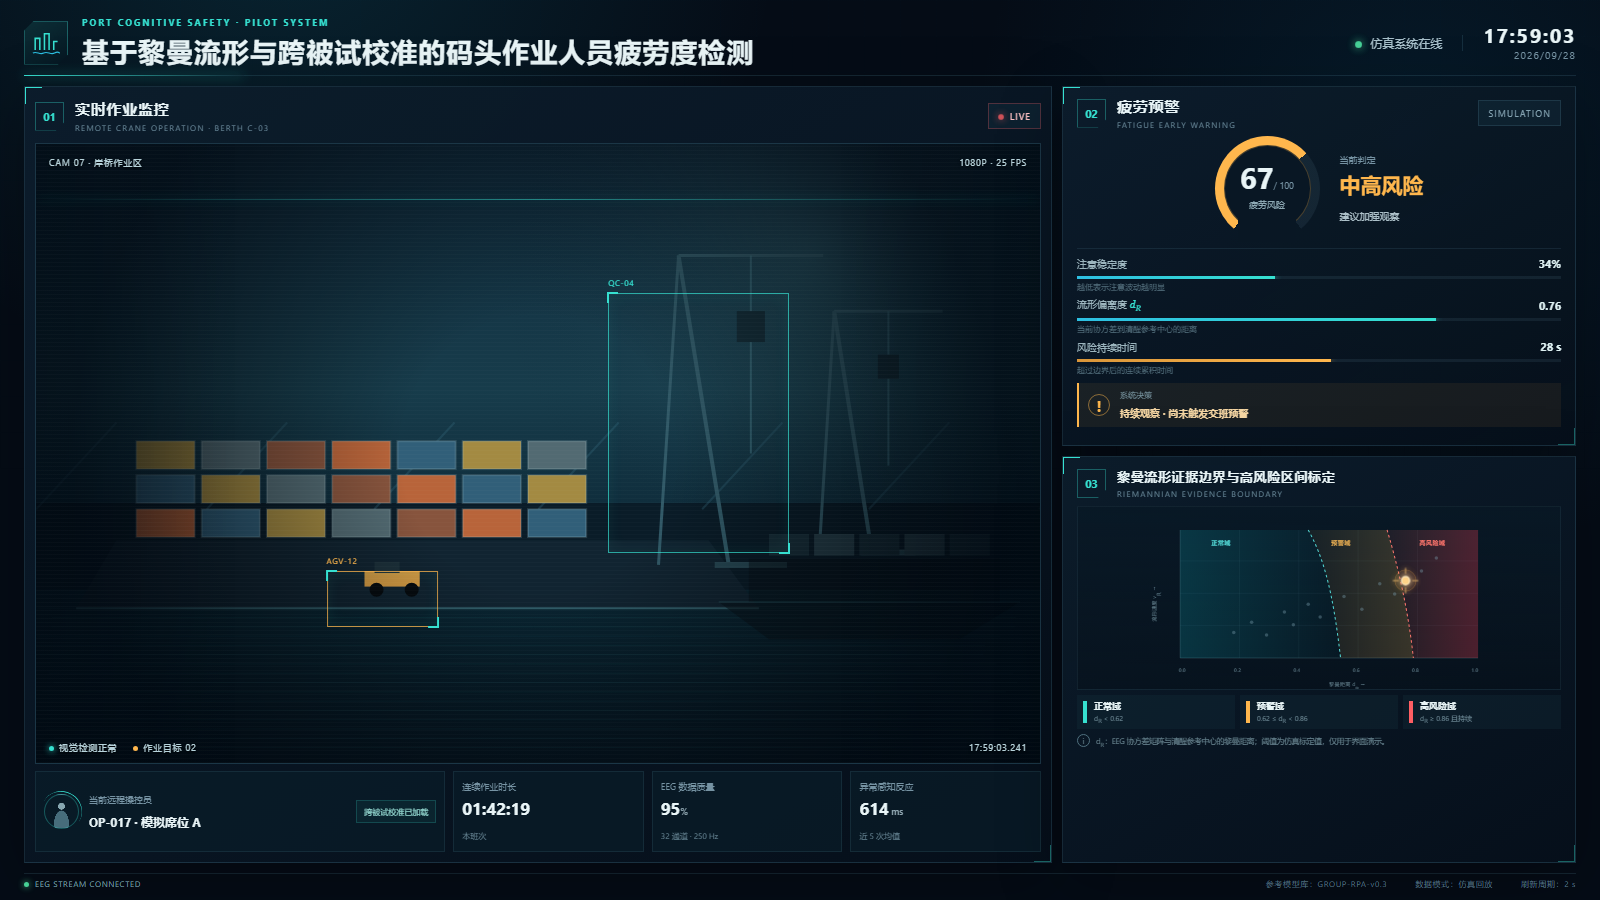
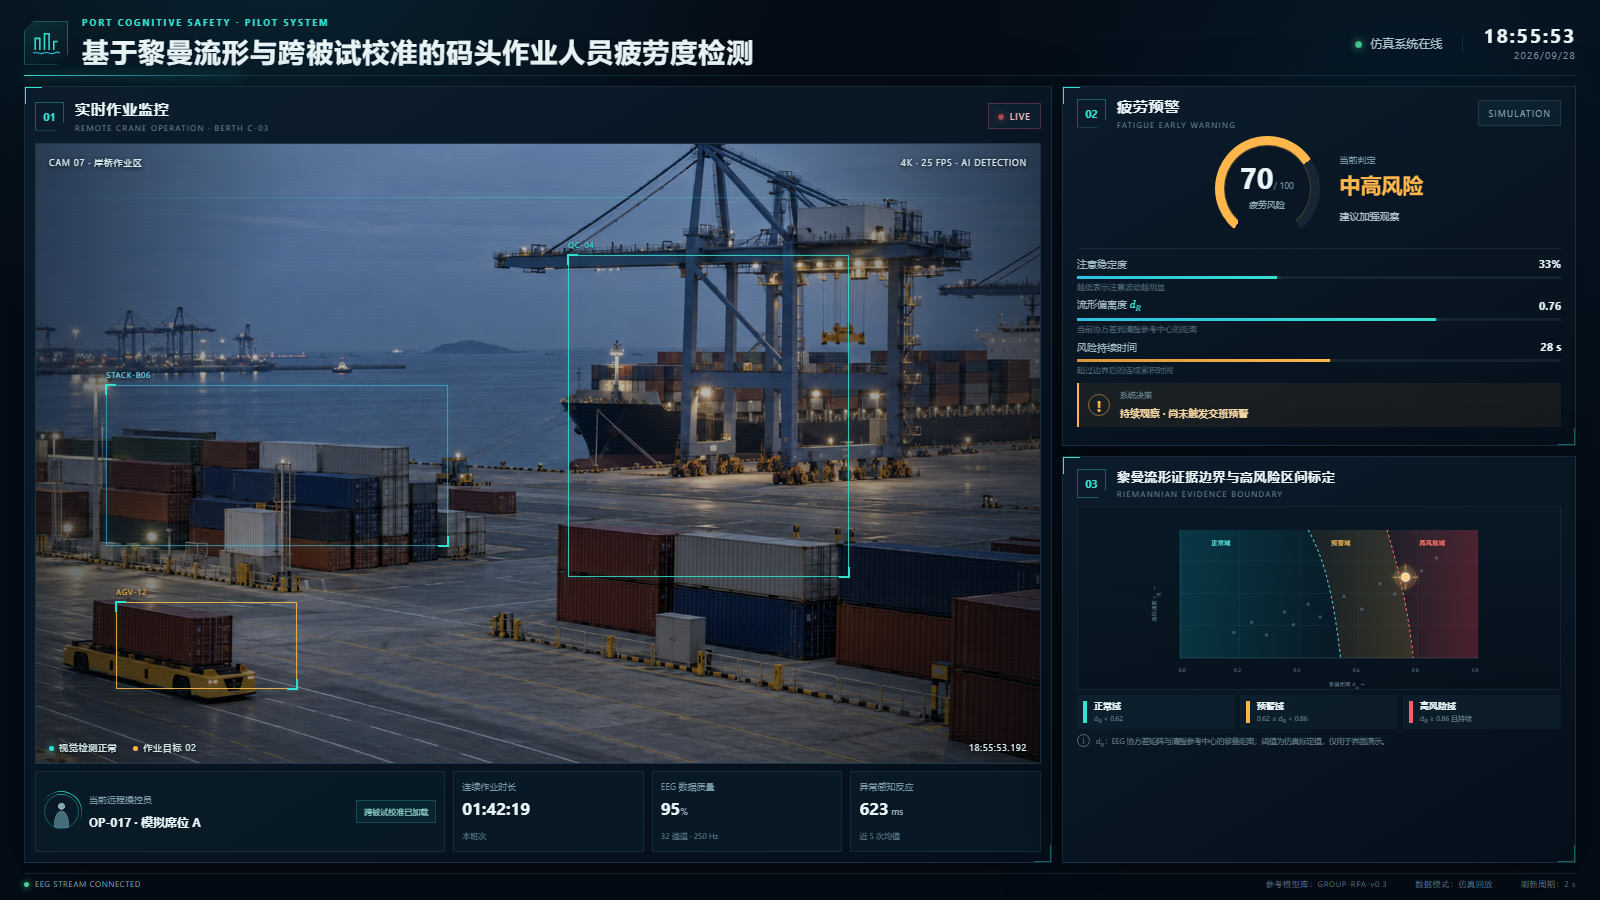
Upgrade monitoring feed with realistic port scene

diff --git a/dist/styles.css b/dist/styles.css
@@ -1,9 +1,10 @@
 :root{--bg:#050c16;--panel:#091522;--panel2:#0b1a29;--line:rgba(108,174,202,.16);--cyan:#36e0d0;--cyan2:#2dbfe2;--text:#e9f5f7;--muted:#7693a3;--amber:#ffb74d;--red:#ff5e63;--green:#4de0a1;--shadow:0 18px 60px rgba(0,0,0,.28)}
 *{box-sizing:border-box}html,body{margin:0;min-height:100%;background:var(--bg);color:var(--text);font-family:"Segoe UI","Microsoft YaHei UI","PingFang SC",sans-serif}body{overflow-x:hidden;background:radial-gradient(circle at 18% -10%,rgba(23,145,170,.18),transparent 30%),radial-gradient(circle at 88% 15%,rgba(8,87,124,.18),transparent 27%),#050c16}.app-shell{min-height:100vh;display:grid;grid-template-rows:auto 1fr auto;padding:18px 24px 12px;position:relative}.app-shell:before{content:"";position:fixed;inset:0;pointer-events:none;opacity:.18;background-image:linear-gradient(rgba(107,204,221,.05) 1px,transparent 1px),linear-gradient(90deg,rgba(107,204,221,.05) 1px,transparent 1px);background-size:36px 36px;mask-image:linear-gradient(to bottom,black,transparent 90%)}
 .topbar{height:76px;display:flex;align-items:center;border-bottom:1px solid var(--line);gap:14px;position:relative}.topbar:after{content:"";position:absolute;bottom:-1px;left:0;width:220px;height:1px;background:linear-gradient(90deg,var(--cyan),transparent);box-shadow:0 0 12px var(--cyan)}.brand-mark{width:44px;height:44px;border:1px solid rgba(65,226,215,.3);display:grid;place-items:center;background:linear-gradient(145deg,rgba(54,224,208,.12),transparent);clip-path:polygon(10px 0,100% 0,100% calc(100% - 10px),calc(100% - 10px) 100%,0 100%,0 10px)}.brand-mark svg{width:34px;fill:none;stroke:var(--cyan);stroke-width:2}.brand-mark .wave{stroke:var(--cyan2);stroke-width:1.5}.title-block{min-width:0}.eyebrow{font-size:9px;letter-spacing:.22em;color:var(--cyan);font-weight:700;margin-bottom:5px}.title-block h1{font-size:clamp(19px,1.7vw,29px);font-weight:650;letter-spacing:.03em;margin:0;white-space:nowrap}.top-status{margin-left:auto;display:flex;align-items:center;gap:20px}.system-online{font-size:12px;color:#a9c1cb;border-right:1px solid var(--line);padding-right:20px}.status-dot{display:inline-block;width:7px;height:7px;margin-right:8px;border-radius:50%;background:var(--green);box-shadow:0 0 10px var(--green);animation:pulseDot 1.8s infinite}.time-box{text-align:right;line-height:1}.time-box strong{display:block;font-size:20px;font-variant-numeric:tabular-nums;letter-spacing:.08em}.time-box span{font-size:10px;color:var(--muted);letter-spacing:.11em}
-.dashboard-grid{display:grid;grid-template-columns:minmax(0,2fr) minmax(360px,1fr);gap:14px;padding:14px 0;min-height:0}.panel{background:linear-gradient(150deg,rgba(12,29,44,.96),rgba(6,16,27,.94));border:1px solid var(--line);box-shadow:var(--shadow);position:relative;overflow:hidden}.panel:before,.panel:after{content:"";position:absolute;width:16px;height:16px;pointer-events:none;z-index:5}.panel:before{left:-1px;top:-1px;border-left:2px solid var(--cyan);border-top:2px solid var(--cyan)}.panel:after{right:-1px;bottom:-1px;border-right:2px solid rgba(54,224,208,.4);border-bottom:2px solid rgba(54,224,208,.4)}.monitor-panel{padding:14px;display:flex;flex-direction:column;min-height:690px}.panel-heading{display:flex;align-items:center;justify-content:space-between;height:46px;margin-bottom:11px}.panel-heading>div:first-child{display:flex;align-items:center;gap:11px}.section-index{font:700 11px/1 "Segoe UI";color:var(--cyan);border:1px solid rgba(54,224,208,.35);width:29px;height:29px;display:grid;place-items:center;clip-path:polygon(0 0,100% 0,100% 72%,72% 100%,0 100%)}.panel-heading h2{font-size:15px;margin:0 0 3px;letter-spacing:.05em}.panel-heading p{font-size:8px;letter-spacing:.16em;color:#658495;margin:0}.panel-heading.compact{height:40px;margin-bottom:9px}.live-chip,.sim-badge{font-size:9px;letter-spacing:.12em;padding:6px 9px;color:#aec8d2;background:rgba(46,107,130,.12);border:1px solid rgba(116,181,202,.16)}.live-chip{color:#ffc3c6;border-color:rgba(255,94,99,.28)}.live-chip span{width:6px;height:6px;display:inline-block;border-radius:50%;background:var(--red);box-shadow:0 0 8px var(--red);margin-right:6px;animation:pulseDot 1s infinite}.camera-frame{position:relative;flex:1;min-height:460px;overflow:hidden;background:#07131e;border:1px solid rgba(93,175,201,.23)}#portCanvas{display:block;width:100%;height:100%;position:absolute;inset:0}.camera-frame:after{content:"";position:absolute;inset:0;pointer-events:none;background:repeating-linear-gradient(0deg,rgba(255,255,255,.018),rgba(255,255,255,.018) 1px,transparent 1px,transparent 4px),linear-gradient(90deg,rgba(0,11,20,.25),transparent 20%,transparent 80%,rgba(0,11,20,.25))}.camera-top-overlay,.camera-bottom-overlay{position:absolute;left:13px;right:13px;z-index:3;display:flex;justify-content:space-between;color:#b8d4dc;font-size:9px;letter-spacing:.08em;text-shadow:0 1px 3px #000}.camera-top-overlay{top:12px}.camera-bottom-overlay{bottom:10px;align-items:center}.camera-bottom-overlay>div{margin-right:16px}.camera-bottom-overlay time{margin-left:auto;font-variant-numeric:tabular-nums}.tiny-dot{display:inline-block;width:5px;height:5px;border-radius:50%;margin-right:5px}.tiny-dot.cyan{background:var(--cyan);box-shadow:0 0 6px var(--cyan)}.tiny-dot.amber{background:var(--amber)}.scan-line{position:absolute;z-index:2;left:0;right:0;height:1px;top:12%;background:linear-gradient(90deg,transparent,rgba(56,224,208,.8),transparent);box-shadow:0 0 12px rgba(56,224,208,.5);animation:scan 6s linear infinite;opacity:.65}.focus-box{position:absolute;z-index:3;border:1px solid rgba(54,224,208,.7);box-shadow:inset 0 0 16px rgba(54,224,208,.07)}.focus-box:before,.focus-box:after{content:"";position:absolute;width:9px;height:9px}.focus-box:before{top:-2px;left:-2px;border-left:2px solid var(--cyan);border-top:2px solid var(--cyan)}.focus-box:after{bottom:-2px;right:-2px;border-right:2px solid var(--cyan);border-bottom:2px solid var(--cyan)}.focus-box span{position:absolute;top:-17px;left:-1px;color:var(--cyan);font-size:8px;letter-spacing:.08em}.focus-crane{left:57%;top:24%;width:18%;height:42%}.focus-truck{left:29%;top:69%;width:11%;height:9%;border-color:rgba(255,183,77,.75);animation:truckBox 10s ease-in-out infinite}.focus-truck span{color:var(--amber)}.monitor-footer{display:grid;grid-template-columns:1.55fr .72fr .72fr .72fr;gap:8px;margin-top:9px}.operator-card,.metric-card{min-height:67px;border:1px solid rgba(111,177,200,.12);background:rgba(9,29,43,.64);padding:11px;display:flex;align-items:center}.operator-avatar{width:35px;height:35px;border-radius:50%;border:1px solid rgba(54,224,208,.32);position:relative;margin-right:10px;background:radial-gradient(circle at 50% 34%,#87a7b1 0 12%,transparent 13%),radial-gradient(ellipse at 50% 85%,#476d7b 0 31%,transparent 32%)}.operator-avatar:after{content:"";position:absolute;inset:-4px;border-radius:50%;border-top:1px solid var(--cyan);transform:rotate(30deg)}.operator-card p,.metric-card p{font-size:9px;color:var(--muted);margin:0 0 5px}.operator-card strong{font-size:12px}.operator-card .tag{margin-left:auto}.tag{font-size:8px;padding:5px 7px;border:1px solid rgba(54,224,208,.2);color:#94d9d1;background:rgba(54,224,208,.06)}.metric-card{display:block}.metric-card strong{display:block;font-size:17px;font-variant-numeric:tabular-nums;margin-bottom:3px}.metric-card small{font-size:9px;font-weight:500;color:#9ab1bb}.metric-card>span{font-size:8px;color:#63808f}
+.dashboard-grid{display:grid;grid-template-columns:minmax(0,2fr) minmax(360px,1fr);gap:14px;padding:14px 0;min-height:0}.panel{background:linear-gradient(150deg,rgba(12,29,44,.96),rgba(6,16,27,.94));border:1px solid var(--line);box-shadow:var(--shadow);position:relative;overflow:hidden}.panel:before,.panel:after{content:"";position:absolute;width:16px;height:16px;pointer-events:none;z-index:5}.panel:before{left:-1px;top:-1px;border-left:2px solid var(--cyan);border-top:2px solid var(--cyan)}.panel:after{right:-1px;bottom:-1px;border-right:2px solid rgba(54,224,208,.4);border-bottom:2px solid rgba(54,224,208,.4)}.monitor-panel{padding:14px;display:flex;flex-direction:column;min-height:690px}.panel-heading{display:flex;align-items:center;justify-content:space-between;height:46px;margin-bottom:11px}.panel-heading>div:first-child{display:flex;align-items:center;gap:11px}.section-index{font:700 11px/1 "Segoe UI";color:var(--cyan);border:1px solid rgba(54,224,208,.35);width:29px;height:29px;display:grid;place-items:center;clip-path:polygon(0 0,100% 0,100% 72%,72% 100%,0 100%,0 10px)}.panel-heading h2{font-size:15px;margin:0 0 3px;letter-spacing:.05em}.panel-heading p{font-size:8px;letter-spacing:.16em;color:#658495;margin:0}.panel-heading.compact{height:40px;margin-bottom:9px}.live-chip,.sim-badge{font-size:9px;letter-spacing:.12em;padding:6px 9px;color:#aec8d2;background:rgba(46,107,130,.12);border:1px solid rgba(116,181,202,.16)}.live-chip{color:#ffc3c6;border-color:rgba(255,94,99,.28)}.live-chip span{width:6px;height:6px;display:inline-block;border-radius:50%;background:var(--red);box-shadow:0 0 8px var(--red);margin-right:6px;animation:pulseDot 1s infinite}.camera-frame{position:relative;flex:1;min-height:460px;overflow:hidden;background:#07131e;border:1px solid rgba(93,175,201,.23)}.port-feed{position:absolute;inset:-1.5%;width:103%;height:103%;object-fit:cover;object-position:center;filter:saturate(.82) contrast(1.09) brightness(.78);animation:cameraDrift 18s ease-in-out infinite alternate}.feed-color-grade{position:absolute;inset:0;z-index:1;background:linear-gradient(180deg,rgba(4,24,35,.04),rgba(3,17,28,.18)),linear-gradient(90deg,rgba(5,20,31,.22),transparent 25%,transparent 75%,rgba(5,20,31,.28));mix-blend-mode:multiply}.camera-frame:after{content:"";position:absolute;inset:0;z-index:2;pointer-events:none;background:repeating-linear-gradient(0deg,rgba(255,255,255,.018),rgba(255,255,255,.018) 1px,transparent 1px,transparent 4px),radial-gradient(circle at center,transparent 55%,rgba(0,8,15,.4) 100%)}.camera-top-overlay,.camera-bottom-overlay{position:absolute;left:13px;right:13px;z-index:4;display:flex;justify-content:space-between;color:#d2e7ea;font-size:9px;letter-spacing:.08em;text-shadow:0 1px 4px #000}.camera-top-overlay{top:12px}.camera-bottom-overlay{bottom:10px;align-items:center}.camera-bottom-overlay>div{margin-right:16px}.camera-bottom-overlay time{margin-left:auto;font-variant-numeric:tabular-nums}.tiny-dot{display:inline-block;width:5px;height:5px;border-radius:50%;margin-right:5px}.tiny-dot.cyan{background:var(--cyan);box-shadow:0 0 6px var(--cyan)}.tiny-dot.amber{background:var(--amber)}.scan-line{position:absolute;z-index:3;left:0;right:0;height:1px;top:12%;background:linear-gradient(90deg,transparent,rgba(56,224,208,.75),transparent);box-shadow:0 0 12px rgba(56,224,208,.42);animation:scan 7s linear infinite;opacity:.48}.focus-box{position:absolute;z-index:4;border:1px solid rgba(54,224,208,.85);box-shadow:inset 0 0 16px rgba(54,224,208,.06),0 0 8px rgba(54,224,208,.12)}.focus-box:before,.focus-box:after{content:"";position:absolute;width:9px;height:9px}.focus-box:before{top:-2px;left:-2px;border-left:2px solid var(--cyan);border-top:2px solid var(--cyan)}.focus-box:after{bottom:-2px;right:-2px;border-right:2px solid var(--cyan);border-bottom:2px solid var(--cyan)}.focus-box span{position:absolute;top:-17px;left:-1px;color:var(--cyan);font-size:8px;letter-spacing:.08em;text-shadow:0 1px 3px #000}.focus-crane{left:53%;top:18%;width:28%;height:52%}.focus-truck{left:15%;top:69%;width:15%;height:10%;border-color:rgba(255,183,77,.9);animation:truckBox 12s ease-in-out infinite}.focus-truck span{color:var(--amber)}.focus-container{left:7%;top:39%;width:34%;height:26%;border-color:rgba(65,190,226,.62)}.focus-container span{color:#65d7f1}.monitor-footer{display:grid;grid-template-columns:1.55fr .72fr .72fr .72fr;gap:8px;margin-top:9px}.operator-card,.metric-card{min-height:67px;border:1px solid rgba(111,177,200,.12);background:rgba(9,29,43,.64);padding:11px;display:flex;align-items:center}.operator-avatar{width:35px;height:35px;border-radius:50%;border:1px solid rgba(54,224,208,.32);position:relative;margin-right:10px;background:radial-gradient(circle at 50% 34%,#87a7b1 0 12%,transparent 13%),radial-gradient(ellipse at 50% 85%,#476d7b 0 31%,transparent 32%)}.operator-avatar:after{content:"";position:absolute;inset:-4px;border-radius:50%;border-top:1px solid var(--cyan);transform:rotate(30deg)}.operator-card p,.metric-card p{font-size:9px;color:var(--muted);margin:0 0 5px}.operator-card strong{font-size:12px}.operator-card .tag{margin-left:auto}.tag{font-size:8px;padding:5px 7px;border:1px solid rgba(54,224,208,.2);color:#94d9d1;background:rgba(54,224,208,.06)}.metric-card{display:block}.metric-card strong{display:block;font-size:17px;font-variant-numeric:tabular-nums;margin-bottom:3px}.metric-card small{font-size:9px;font-weight:500;color:#9ab1bb}.metric-card>span{font-size:8px;color:#63808f}
 .decision-column{display:grid;grid-template-rows:minmax(0,.94fr) minmax(0,1.06fr);gap:14px;min-height:0}.alert-panel,.manifold-panel{padding:12px 14px}.sim-badge{color:#85a4b2}.gauge-row{display:flex;align-items:center;justify-content:center;gap:25px;padding:4px 0 11px;border-bottom:1px solid rgba(114,174,197,.12)}.risk-gauge{--risk:68;width:125px;aspect-ratio:1;border-radius:50%;display:grid;place-items:center;background:conic-gradient(from 220deg,var(--amber) calc(var(--risk)*2.8deg),rgba(101,139,157,.12) 0 280deg,transparent 0);position:relative;transform:rotate(0deg)}.risk-gauge:before{content:"";position:absolute;inset:9px;border-radius:50%;background:#091724;border:1px solid rgba(255,183,77,.25)}.risk-gauge:after{content:"";position:absolute;bottom:-1px;width:58px;height:27px;background:#091724}.gauge-inner{position:relative;z-index:1;text-align:center;margin-top:-4px}.gauge-inner strong{font-size:35px;line-height:1;font-variant-numeric:tabular-nums}.gauge-inner span{font-size:9px;color:var(--muted)}.gauge-inner small{display:block;font-size:9px;color:#8ea9b4;margin-top:5px}.risk-copy p{font-size:9px;color:var(--muted);margin:0 0 5px}.risk-copy strong{display:block;color:var(--amber);font-size:21px;margin-bottom:5px}.risk-copy span{font-size:10px;color:#adc1c9}.evidence-list{padding:10px 0 7px}.evidence-item{margin-bottom:8px}.evidence-item>div:first-child{display:flex;justify-content:space-between;align-items:center;font-size:10px;color:#9cb5be}.evidence-item b{font-size:11px;color:#dff2f3;font-variant-numeric:tabular-nums}.evidence-item em{font-family:Georgia,serif;color:var(--cyan);font-style:italic}.evidence-item small{display:block;font-size:8px;color:#55717f;margin-top:3px}.mini-track{height:3px;background:rgba(106,156,176,.12);margin-top:5px;overflow:hidden}.mini-track i{display:block;height:100%;background:linear-gradient(90deg,var(--cyan2),var(--cyan));box-shadow:0 0 7px var(--cyan);transition:width .8s ease}.mini-track.amber i{background:linear-gradient(90deg,#d99539,var(--amber));box-shadow:0 0 7px rgba(255,183,77,.65)}.decision-strip{display:flex;align-items:center;gap:10px;background:rgba(255,183,77,.07);border-left:2px solid var(--amber);padding:8px 10px}.decision-icon{width:22px;height:22px;border-radius:50%;display:grid;place-items:center;border:1px solid rgba(255,183,77,.5);color:var(--amber);font-weight:700}.decision-strip span{font-size:8px;color:#77939f;display:block}.decision-strip strong{font-size:10px;color:#f5d6a3}.manifold-heading h2{font-size:13px}.chart-wrap{height:220px;border:1px solid rgba(106,168,190,.1);background:linear-gradient(180deg,rgba(8,24,37,.8),rgba(5,15,25,.5));overflow:hidden}.chart-wrap svg{width:100%;height:100%;display:block}.grid-lines path{stroke:rgba(132,183,200,.1);stroke-width:1}.grid-lines path:first-child{stroke:rgba(140,195,210,.3)}.boundary-line{fill:none;stroke:#53d9d6;stroke-width:1.5;stroke-dasharray:4 4}.boundary-line.red{stroke:#ff776f}.historical-points circle{fill:#789ca9;opacity:.4}.pulse{fill:rgba(255,183,77,.08);stroke:rgba(255,183,77,.35);animation:chartPulse 1.8s infinite}.point{fill:#ffd287;stroke:#fff0cf;stroke-width:1.5}.chart-wrap #currentPoint path{stroke:#ffcb75;stroke-width:1}.axis-labels text{fill:#65828f;font-size:8px}.zone-labels text{font-size:9px;letter-spacing:.08em;font-weight:600}.zone-labels text:nth-child(1){fill:#53d9d6}.zone-labels text:nth-child(2){fill:#e3aa51}.zone-labels text:nth-child(3){fill:#ff766d}.boundary-legend{display:grid;grid-template-columns:repeat(3,1fr);gap:5px;margin-top:7px}.boundary-legend>div{display:flex;align-items:center;padding:5px 6px;background:rgba(20,46,61,.35)}.legend-mark{width:4px;height:28px;margin-right:7px}.legend-mark.safe{background:var(--cyan)}.legend-mark.warn{background:var(--amber)}.legend-mark.risk{background:var(--red)}.boundary-legend p{margin:0}.boundary-legend strong{display:block;font-size:9px}.boundary-legend small{display:block;font-size:7px;color:#6e8a96;margin-top:2px}.chart-note{font-size:7.5px;line-height:1.5;color:#688490;margin:7px 0 0}.chart-note>span{display:inline-grid;place-items:center;width:13px;height:13px;border:1px solid #507180;border-radius:50%;font-size:8px;margin-right:4px}.footerbar{height:24px;display:flex;justify-content:flex-end;align-items:center;gap:28px;border-top:1px solid var(--line);font-size:8px;letter-spacing:.08em;color:#5f7e8b}.footerbar span:first-child{margin-right:auto;color:#82a7b4}.footerbar i{display:inline-block;width:5px;height:5px;border-radius:50%;background:var(--green);margin-right:6px;box-shadow:0 0 6px var(--green)}
-@keyframes pulseDot{50%{opacity:.35;transform:scale(.75)}}@keyframes scan{from{top:8%}to{top:90%}}@keyframes chartPulse{50%{r:11;opacity:.35}}@keyframes truckBox{0%,100%{transform:translateX(0)}50%{transform:translateX(28px)}}
+.section-index{clip-path:polygon(0 0,100% 0,100% 72%,72% 100%,0 100%)}.focus-truck{left:8%;top:74%;width:18%;height:14%}
+@keyframes pulseDot{50%{opacity:.35;transform:scale(.75)}}@keyframes scan{from{top:8%}to{top:90%}}@keyframes chartPulse{50%{r:11;opacity:.35}}@keyframes truckBox{0%,100%{transform:translateX(0)}50%{transform:translateX(18px)}}@keyframes cameraDrift{from{transform:scale(1.01) translate3d(-.2%,0,0)}to{transform:scale(1.045) translate3d(.5%,-.35%,0)}}
 @media(min-width:1051px) and (max-height:950px){.app-shell{padding:10px 24px 7px}.topbar{height:66px}.dashboard-grid{padding:10px 0;gap:10px}.monitor-panel{min-height:0;padding:10px}.panel-heading{height:38px;margin-bottom:8px}.camera-frame{min-height:0}.monitor-footer{margin-top:7px}.operator-card,.metric-card{min-height:58px;padding:8px}.decision-column{gap:10px}.alert-panel,.manifold-panel{padding:9px 14px}.panel-heading.compact{height:34px;margin-bottom:6px}.gauge-row{gap:20px;padding:0 0 7px}.risk-gauge{width:105px}.gauge-inner strong{font-size:29px}.evidence-list{padding:7px 0 3px}.evidence-item{margin-bottom:5px}.evidence-item small{margin-top:2px}.decision-strip{padding:6px 9px}.chart-wrap{height:184px}.boundary-legend{margin-top:5px}.boundary-legend>div{padding:4px 6px}.legend-mark{height:22px}.chart-note{margin-top:5px}.footerbar{height:20px}}
 @media(max-width:1050px){.app-shell{padding:12px}.title-block h1{white-space:normal;font-size:18px}.dashboard-grid{grid-template-columns:1fr}.monitor-panel{min-height:620px}.decision-column{grid-template-columns:1fr 1fr;grid-template-rows:auto}.footerbar{gap:12px}.monitor-footer{grid-template-columns:1.4fr repeat(3,.8fr)}}
 @media(max-width:760px){.topbar{height:auto;padding:10px 0}.brand-mark{display:none}.top-status{align-self:flex-start}.system-online{display:none}.title-block h1{font-size:16px}.eyebrow{font-size:7px}.dashboard-grid{padding-top:10px}.monitor-panel{min-height:570px}.camera-frame{min-height:350px}.monitor-footer{grid-template-columns:1fr 1fr}.operator-card{grid-column:1/-1}.decision-column{grid-template-columns:1fr}.footerbar span:nth-child(n+3){display:none}}

diff --git a/dist/app.js b/dist/app.js
@@ -55,39 +55,6 @@
     group.innerHTML = points.map(([x,y]) => `<circle cx="${54+x*442}" cy="${224-y/.5*190}" r="2.6"/>`).join('');
   }
 
-  const canvas = $('portCanvas');
-  const ctx = canvas.getContext('2d');
-  let t = 0;
-  function fitCanvas() {
-    const dpr = Math.min(window.devicePixelRatio || 1, 2);
-    const rect = canvas.getBoundingClientRect();
-    canvas.width = Math.max(1, Math.round(rect.width * dpr));
-    canvas.height = Math.max(1, Math.round(rect.height * dpr));
-    ctx.setTransform(dpr, 0, 0, dpr, 0, 0);
-  }
-  function line(x1,y1,x2,y2,color,width=1){ctx.strokeStyle=color;ctx.lineWidth=width;ctx.beginPath();ctx.moveTo(x1,y1);ctx.lineTo(x2,y2);ctx.stroke()}
-  function drawPort() {
-    const w = canvas.clientWidth, h = canvas.clientHeight;
-    if (!w || !h) return requestAnimationFrame(drawPort);
-    t += .008;
-    const sky = ctx.createLinearGradient(0,0,0,h*.72);sky.addColorStop(0,'#102b3d');sky.addColorStop(.55,'#173c4b');sky.addColorStop(1,'#0a2332');ctx.fillStyle=sky;ctx.fillRect(0,0,w,h*.74);
-    const glow = ctx.createRadialGradient(w*.77,h*.18,2,w*.77,h*.18,w*.32);glow.addColorStop(0,'rgba(115,196,207,.18)');glow.addColorStop(1,'rgba(10,33,46,0)');ctx.fillStyle=glow;ctx.fillRect(0,0,w,h*.65);
-    ctx.fillStyle='#0a1c28';ctx.fillRect(0,h*.58,w,h*.18);
-    for(let i=0;i<7;i++){const x=i*w/6+Math.sin(t+i)*4;line(x,h*.59,x+w*.08,h*.45,'rgba(51,101,119,.36)',2)}
-    const water = ctx.createLinearGradient(0,h*.72,0,h);water.addColorStop(0,'#0a2633');water.addColorStop(1,'#061723');ctx.fillStyle=water;ctx.fillRect(0,h*.72,w,h*.28);
-    for(let i=0;i<16;i++){const y=h*.75+i*h*.015;const off=Math.sin(t*2+i)*18;line(off,y,w*.96+off,y,'rgba(59,144,158,.11)',1)}
-    ctx.fillStyle='#112431';ctx.beginPath();ctx.moveTo(w*.08,h*.64);ctx.lineTo(w*.67,h*.64);ctx.lineTo(w*.72,h*.75);ctx.lineTo(w*.04,h*.75);ctx.closePath();ctx.fill();line(w*.04,h*.75,w*.72,h*.75,'#315d69',2);
-    const colors=['#b8643a','#315f79','#a38a42','#526a72','#87543d'];for(let r=0;r<3;r++)for(let c=0;c<7;c++){ctx.fillStyle=colors[(r+c)%colors.length];ctx.fillRect(w*(.1+c*.065),h*(.59-r*.055),w*.058,h*.045);ctx.strokeStyle='rgba(190,218,220,.18)';ctx.strokeRect(w*(.1+c*.065),h*(.59-r*.055),w*.058,h*.045)}
-    drawCrane(w*.62,h*.18,w*.2,h*.5);drawCrane(w*.78,h*.27,w*.15,h*.39);
-    const tx=w*(.26+(Math.sin(t*.7)*.5+.5)*.13);ctx.fillStyle='#d39a43';ctx.fillRect(tx,h*.69,w*.055,h*.025);ctx.fillStyle='#1c303a';ctx.fillRect(tx+w*.01,h*.675,w*.025,h*.018);ctx.fillStyle='#060b0f';ctx.beginPath();ctx.arc(tx+w*.012,h*.72,w*.007,0,Math.PI*2);ctx.arc(tx+w*.047,h*.72,w*.007,0,Math.PI*2);ctx.fill();
-    ctx.fillStyle='rgba(8,18,25,.55)';ctx.fillRect(w*.71,h*.67,w*.25,h*.07);ctx.beginPath();ctx.moveTo(w*.68,h*.74);ctx.lineTo(w*.98,h*.74);ctx.lineTo(w*.92,h*.8);ctx.lineTo(w*.73,h*.8);ctx.closePath();ctx.fill();line(w*.68,h*.74,w*.98,h*.74,'rgba(88,178,188,.3)');
-    for(let i=0;i<5;i++){ctx.fillStyle=i%2?'#263f4a':'#182f3a';ctx.fillRect(w*(.73+i*.045),h*.63,w*.04,h*.035)}
-    const vignette=ctx.createRadialGradient(w/2,h/2,h*.22,w/2,h/2,h*.75);vignette.addColorStop(0,'rgba(0,0,0,0)');vignette.addColorStop(1,'rgba(0,5,12,.7)');ctx.fillStyle=vignette;ctx.fillRect(0,0,w,h);
-    requestAnimationFrame(drawPort);
-  }
-  function drawCrane(x,y,cw,ch){ctx.save();ctx.strokeStyle='#294f5d';ctx.lineWidth=Math.max(2,cw*.018);ctx.lineJoin='miter';line(x,y+ch,x+cw*.1,y,'#315967',3);line(x+cw*.1,y,x+cw*.82,y,'#315967',3);line(x+cw*.1,y,x+cw*.35,y+ch,'#315967',4);line(x+cw*.28,y+ch,x+cw*.64,y+ch,'#264753',6);line(x+cw*.46,y,x+cw*.46,y+ch*.64,'rgba(63,114,127,.65)',2);ctx.fillStyle='#152e39';ctx.fillRect(x+cw*.39,y+ch*.18,cw*.14,ch*.1);ctx.restore()}
-
-  window.addEventListener('resize', fitCanvas);
-  fitCanvas(); createHistory(); tickClock(); updateSimulation(); drawPort();
+  createHistory(); tickClock(); updateSimulation();
   setInterval(tickClock, 250); setInterval(updateSimulation, 2000);
 })();

diff --git a/dist/index.html b/dist/index.html
@@ -35,13 +35,15 @@
         </div>
 
         <div class="camera-frame">
-          <canvas id="portCanvas" aria-label="仿真的码头远程作业监控画面"></canvas>
+          <img class="port-feed" src="./assets/port-cctv-realistic.png" alt="仿真的现代集装箱码头岸桥与无人集卡监控画面">
+          <div class="feed-color-grade" aria-hidden="true"></div>
           <div class="camera-top-overlay">
-            <span>CAM 07 · 岸桥作业区</span><span>1080P · 25 FPS</span>
+            <span>CAM 07 · 岸桥作业区</span><span>4K · 25 FPS · AI DETECTION</span>
           </div>
           <div class="scan-line" aria-hidden="true"></div>
           <div class="focus-box focus-crane"><span>QC-04</span></div>
           <div class="focus-box focus-truck"><span>AGV-12</span></div>
+          <div class="focus-box focus-container"><span>STACK-B06</span></div>
           <div class="camera-bottom-overlay">
             <div><span class="tiny-dot cyan"></span>视觉检测正常</div>
             <div><span class="tiny-dot amber"></span>作业目标 02</div>
